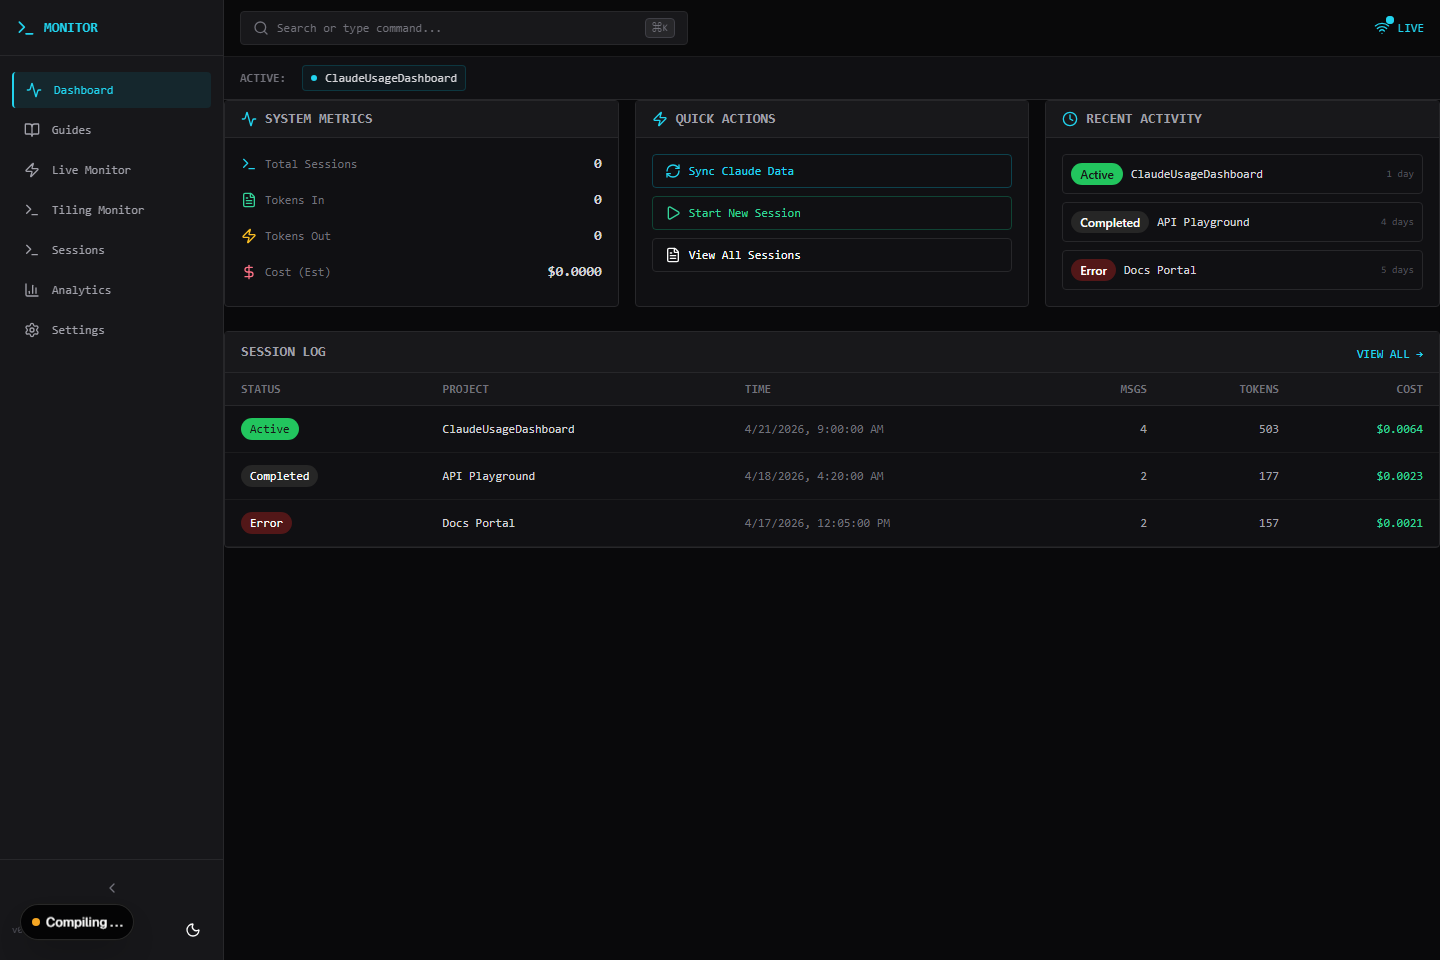
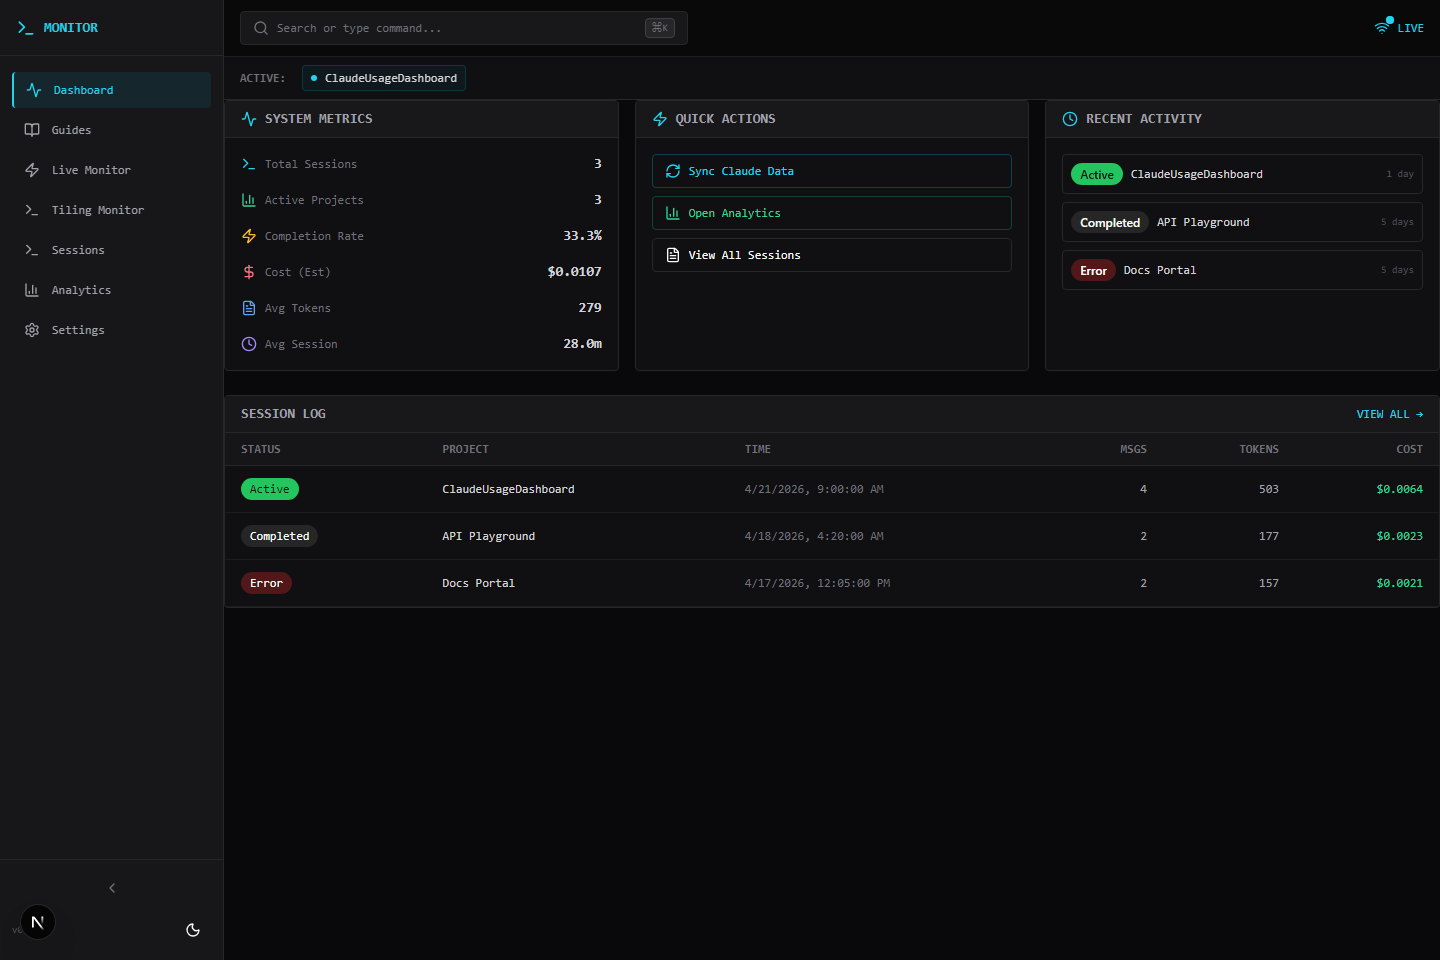
Refresh analytics screenshots

diff --git a/lib/content/guides.ts b/lib/content/guides.ts
@@ -39,6 +39,15 @@ export const productScreenshots: ProductScreenshot[] = [
     alt: 'Sessions page showing filter buttons and a table of Claude sessions.',
   },
   {
+    id: 'analytics-overview',
+    title: 'Analytics overview',
+    description:
+      'Operator dashboard with KPI cards, trend charts, tool mix, project leaderboard, and hotspots.',
+    fileName: 'analytics-overview.png',
+    route: '/analytics',
+    alt: 'Analytics dashboard showing operator KPIs, charts, leaderboards, and hotspot panels.',
+  },
+  {
     id: 'session-detail',
     title: 'Session detail',
     description:
@@ -113,6 +122,31 @@ export const userGuideSections: UserGuideSection[] = [
         title: 'Open a detail page',
         description:
           'Select View on any row to inspect the summary, files touched, folders accessed, and full conversation.',
+      },
+    ],
+  },
+  {
+    id: 'analyze-workflow-health',
+    title: 'Analyze workflow health',
+    summary:
+      'Use the analytics dashboard to understand completion rate, tool mix, busiest projects, and transcript hotspots.',
+    route: '/analytics',
+    screenshotId: 'analytics-overview',
+    steps: [
+      {
+        title: 'Open Analytics',
+        description:
+          'Start on the analytics dashboard when you want a higher-signal view of recent usage than the main landing page.',
+      },
+      {
+        title: 'Read the KPI strip first',
+        description:
+          'The top metrics summarize sessions, active projects, completion rate, and average session size for the selected time window.',
+      },
+      {
+        title: 'Use charts and leaderboards to find hotspots',
+        description:
+          'Scan trend lines, tool mix, hourly activity, project ranking, and file or folder hotspots to see where effort is concentrating.',
       },
     ],
   },

diff --git a/tests/e2e/screenshots.spec.ts b/tests/e2e/screenshots.spec.ts
@@ -24,6 +24,18 @@ test.describe('product screenshots', () => {
       animations: 'disabled',
     });
 
+    await page.goto('/analytics');
+    await expect(
+      page.getByRole('heading', {
+        name: 'Real usage, workflow health, and where the agent spends time',
+      })
+    ).toBeVisible();
+    await page.screenshot({
+      path: path.join(screenshotDir, 'analytics-overview.png'),
+      fullPage: true,
+      animations: 'disabled',
+    });
+
     await page.goto('/sessions/demo-session-active');
     await expect(page.getByText('SESSION SUMMARY')).toBeVisible();
     await page.screenshot({

diff --git a/SCREENSHOTS.md b/SCREENSHOTS.md
@@ -18,6 +18,10 @@ npm run screenshots
 ![Sessions List](public/screenshots/sessions-list.png)
 *Filterable inventory of active, completed, and error sessions*
 
+## Analytics Overview
+![Analytics Overview](public/screenshots/analytics-overview.png)
+*Operator analytics for completion rate, tool usage, project activity, and transcript hotspots*
+
 ## Tiling Window Manager
 ![Tiling Monitor](public/screenshots/tiling-monitor.png)
 *Monitor active Claude sessions in a terminal-style tiling layout*
